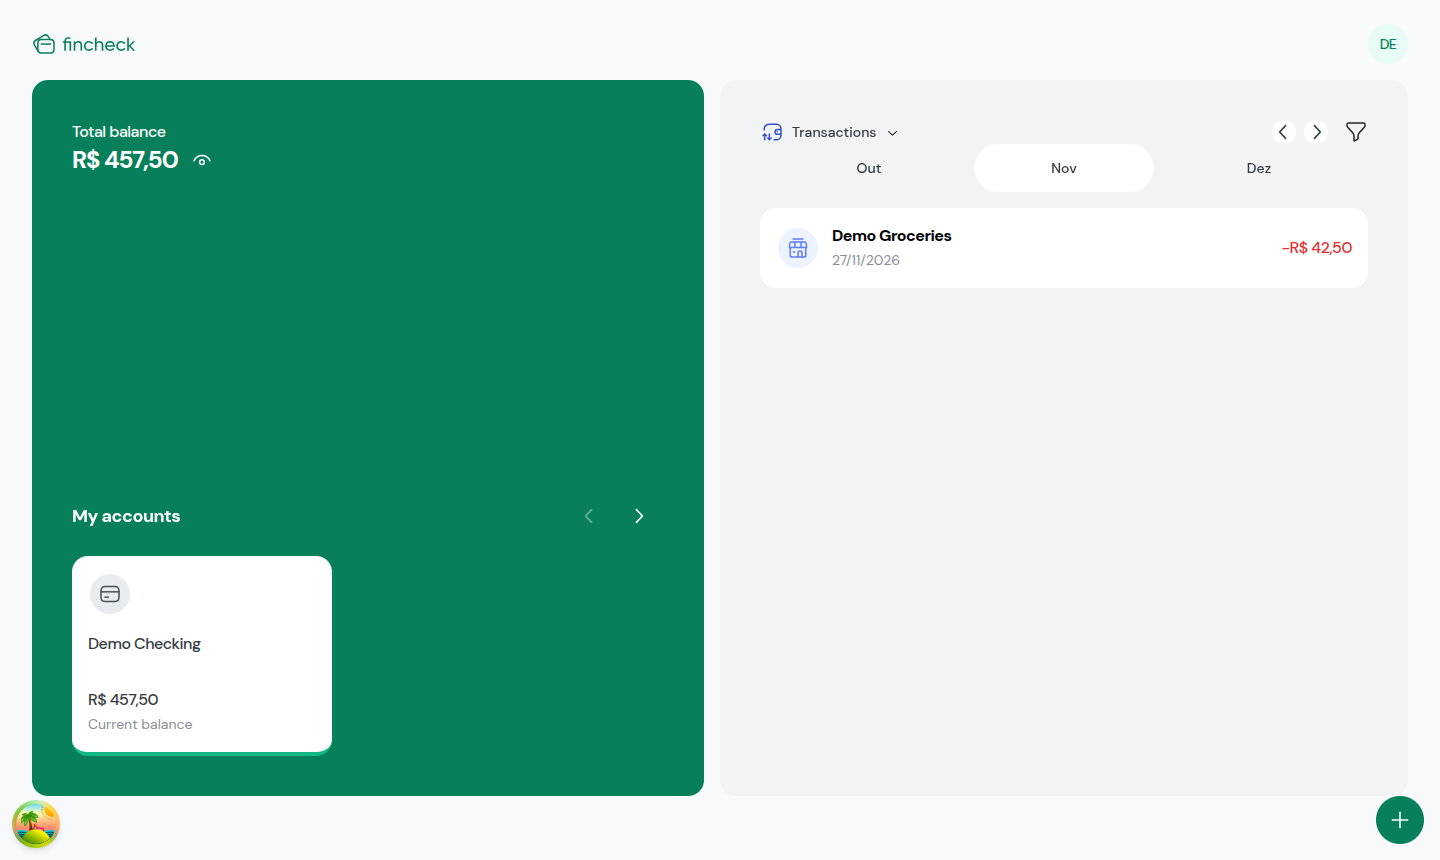
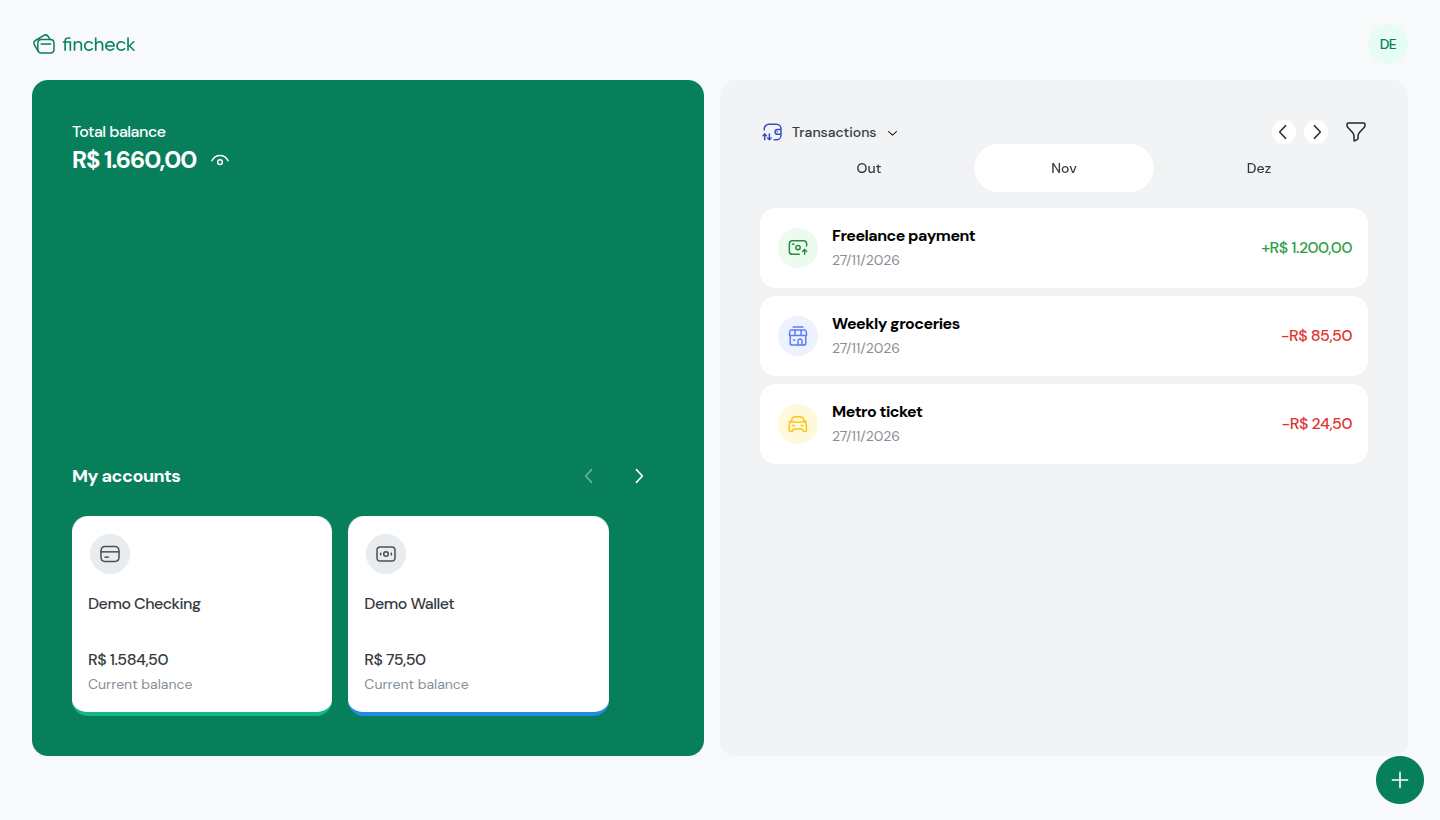
docs: expand the Fincheck workflow demo

diff --git a/README.md b/README.md
@@ -2,11 +2,40 @@
 
 Fincheck is a personal finance tracker for bank accounts, income, and expenses. It includes a React dashboard and a NestJS API backed by PostgreSQL.
 
-## Demo: record a grocery expense
+## Demo: manage accounts and transactions
 
-In a local browser run, I created the fictitious checking account **Demo Checking** with an opening balance of **R$ 500,00**, then recorded **Demo Groceries** as a **R$ 42,50** expense in the **Mercado** category. After reloading the dashboard, the expense was still listed and both the account balance and total balance showed **R$ 457,50**.
+This Chrome run used the local API and PostgreSQL with fictitious data. The dashboard started with **R$ 600,00** across a checking account and a cash account. A freelance payment and three expenses brought the total to **R$ 1.660,00**. The November list shows three entries because the transit pass was dated in October.
 
-![Fincheck dashboard showing the Demo Groceries expense and the R$ 457,50 balance](docs/assets/expense-dashboard.png)
+![Fincheck showing two accounts, one receipt, two November expenses, and a total balance of R$ 1.660,00](docs/assets/expense-dashboard.png)
+
+| Workflow | Observed result |
+| --- | --- |
+| Register, sign out, and sign in | The account and its remaining transactions were still present after signing back in and reloading. |
+| Create and rename accounts | Created **Demo Checking** and **Demo Wallet**. Renaming the wallet to **Daily Cash** preserved its **R$ 100,00** opening balance and **R$ 75,50** current balance. |
+| Add income and expenses | Recorded a **R$ 1.200,00** receipt and categorized expenses. The new expense form returned to today's date after a backdated entry. |
+| Filter transactions | **Receipts** showed only the payment. **Expenses** with **Demo Wallet** selected showed only the metro ticket. Switching months showed the October pass, and selecting 2025 showed an empty list. |
+| Edit and delete records | Changing **Weekly groceries** from **R$ 85,50** to **R$ 90,00** reduced the total to **R$ 1.655,50**. Deleting the metro ticket restored **R$ 24,50**. Deleting the cash account also removed its remaining parking expense from the list. |
+| Hide and reveal amounts | The eye control hid the amounts and remembered that preference after a reload. |
+
+<details>
+<summary>Filter expenses by account and date</summary>
+
+![Filters dialog with Demo Wallet selected and the year set to 2026](docs/assets/transaction-filters.png)
+
+![November expenses filtered to Demo Wallet, showing only the R$ 24,50 metro ticket](docs/assets/filtered-expenses.png)
+
+</details>
+
+<details>
+<summary>Edit an expense and delete a sample account</summary>
+
+![Edit Expense dialog with Weekly groceries changed to R$ 90,00](docs/assets/edit-expense.png)
+
+![Confirmation dialog warning that deleting an account also deletes its related records](docs/assets/delete-account.png)
+
+![Dashboard after signing back in, showing one account, the retained transactions, and a total of R$ 1.580,00](docs/assets/dashboard-after-deletion.png)
+
+</details>
 
 ## Prerequisites
 
@@ -53,10 +82,25 @@ npm ci
 npm run dev -- --host 127.0.0.1
 ```
 
-1. Open [the sign-up page](http://127.0.0.1:3000/register) and register a sample user, such as `demo@example.test`.
-2. Select **Register a new account**. Enter **500** as the balance, name it **Demo Checking**, select **Checking account**, pick a color, and click **Create**.
-3. Open the **+** menu and choose **New Expense**. Enter **42,50** and **Demo Groceries**, select **Mercado** and **Demo Checking**, keep today's date, and click **Create**.
-4. Reload the dashboard and check the current month under **Transactions**. Use the eye icon next to **Total balance** to reveal the amounts if they are hidden.
+To use the same production preview as the screenshots, run `npm run build` and then `npm run preview -- --host 127.0.0.1 --port 3001` from `frontend`.
+
+## Reproduce the demo
+
+1. Open [the sign-up page](http://127.0.0.1:3000/register), or use port 3001 for the production preview. Register a sample user, such as `demo@example.test`.
+2. Select **Register a new account**. Create **Demo Checking** as a **Checking account** with an opening balance of **R$ 500,00**. Use **+ → New Account** to create **Demo Wallet** as **Cash** with **R$ 100,00**. Pick a different color for each account.
+3. Use **+ → New Recipe** to add income and **+ → New Expense** to add expenses. Enter the sample records below and check that the total reaches **R$ 1.660,00**. If values are blurred, click the eye next to **Total balance**.
+
+| Transaction | Amount | Category | Account | Date |
+| --- | --- | --- | --- | --- |
+| Freelance payment | +R$ 1.200,00 | Freelance | Demo Checking | Today |
+| Weekly groceries | −R$ 85,50 | Mercado | Demo Checking | Today |
+| Metro ticket | −R$ 24,50 | Transporte | Demo Wallet | Today |
+| October transit pass | −R$ 30,00 | Transporte | Demo Checking | The 10th of the previous month |
+
+4. Switch **Transactions** to **Receipts**, then **Expenses**. Open the funnel menu, select **Demo Wallet**, and click **Aplicar Filtros**. The current month shows only **Metro ticket**. Clear the account filter by selecting the wallet again. Test a year with no records, then select the appropriate year and month to find the transit pass. Reset the view to **Transactions** in the current month before continuing.
+5. Open **Weekly groceries**, change its amount to **R$ 90,00**, and save. Click **Demo Wallet**, rename it **Daily Cash**, and save without changing its **Opening balance**.
+6. Open **Metro ticket**, click the trash icon, and confirm. Add a **R$ 10,00** **Parking sample** expense to **Daily Cash** with today's date. Then open the **Daily Cash** account and use its trash icon to delete the sample account. Confirm that both the account and parking expense disappear and the total is **R$ 1.580,00**.
+7. Hide the amounts, reload, and check that they are still hidden. Reveal them, choose **Sair** in the profile menu, and sign back in. **Demo Checking**, **Freelance payment**, and the edited **Weekly groceries** remain on the dashboard.
 
 ## Attribution
 
